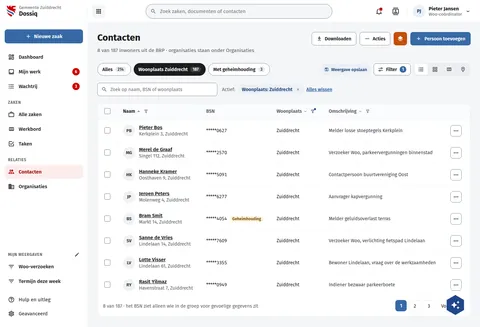
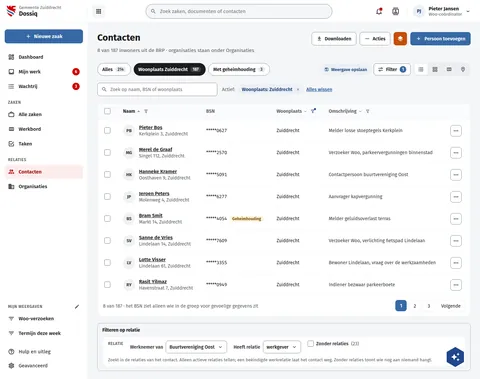
feat(screens): dossiq contact boards follow the pipelinq client boards (decision 305)
DqContact gains the account owner, notes with templates, deletion and GDPR requests with the
ended relationship, and the BRP lookup failures. DqOrganisatie gains the prompt for mail from an
unknown address, and DqContacten the relationship filter.

diff --git a/preview/screens/boards/DqContact.html b/preview/screens/boards/DqContact.html
@@ -192,6 +192,8 @@ a{color:var(--sc-primary, #3669a5)}a:hover{color:var(--sc-primary-deep, #234a78)
                 
                   <div style="display: flex; flex-direction: column; gap: 2px"><dt style="font-size: 13px; color: var(--sc-work-muted, #5e6168)">Omschrijving</dt><dd style="margin: 0">Verzoeker Woo, verlichting fietspad Lindelaan</dd></div>
                 
+                  <div style="display: flex; flex-direction: column; gap: 2px"><dt style="font-size: 13px; color: var(--sc-work-muted, #5e6168)">Accounteigenaar</dt><dd style="margin: 0">Pieter Jansen, de collega die dit contact beheert</dd></div>
+                
               </dl>
             </section>
             <section style="background: #ffffff; border: 1px solid var(--sc-work-line, #e4e6ea); border-radius: 12px; padding: 20px 22px 8px; display: flex; flex-direction: column; gap: 4px">
@@ -315,6 +317,7 @@ a{color:var(--sc-primary, #3669a5)}a:hover{color:var(--sc-primary-deep, #234a78)
                 </div>
               
             </section>
+            <section style="background: #ffffff; border: 1px solid var(--sc-work-line, #e4e6ea); border-radius: 12px; padding: 20px 22px; display: flex; flex-direction: column; gap: 14px"><div style="display: flex; flex-wrap: wrap; justify-content: space-between; align-items: center; gap: 10px"><h2 style="margin: 0; font-size: 17px; font-weight: 700">Notities</h2><div style="display: flex; flex-wrap: wrap; gap: 8px"><button type="button" style="display: inline-flex; align-items: center; gap: 8px; height: 36px; padding: 0 12px; border: 1px solid var(--sc-work-field, #828a95); border-radius: 8px; background: #ffffff; font: 600 14px var(--sc-font, 'Fira Sans'), sans-serif; color: var(--sc-work-ink, #1b1c1d); white-space: nowrap">Notitie toevoegen</button><button type="button" aria-haspopup="listbox" aria-expanded="true" style="display: inline-flex; align-items: center; gap: 8px; height: 36px; padding: 0 12px; border: 1px solid var(--sc-work-field, #828a95); border-radius: 8px; background: #ffffff; font: 600 14px var(--sc-font, 'Fira Sans'), sans-serif; color: var(--sc-work-ink, #1b1c1d); white-space: nowrap">Sjablonen</button></div></div><div style="display: flex; flex-direction: column; gap: 10px; padding: 12px 14px; border: 1px dashed var(--sc-work-field, #828a95); border-radius: 10px"><strong style="font-size: 14px">Sjablonen voor een notitie</strong><div style="display: flex; flex-direction: column; gap: 10px"><ul role="listbox" aria-label="Notitiesjabloon" style="list-style: none; margin: 0; padding: 4px; border: 1px solid var(--sc-work-line, #e4e6ea); border-radius: 8px; max-width: 360px; font-size: 14px"><li role="option" style="padding: 8px 10px; border-radius: 6px; background: var(--sc-primary-light, #eaf0f7)">Eerste contact</li><li role="option" style="padding: 8px 10px; border-radius: 6px">Terugbelgesprek</li><li role="option" style="padding: 8px 10px; border-radius: 6px">Klachtafhandeling</li><li role="option" style="padding: 8px 10px; border-radius: 6px">Afspraak gemaakt</li></ul><span style="font-size: 13px; color: var(--sc-work-muted, #5e6168)">De beheerder beheert ze onder Notitiesjablonen.</span></div></div><span style="font-size: 14px; color: var(--sc-work-muted, #5e6168)">Nog geen notities bij dit contact.</span></section>
           </div>
 
           <aside style="flex: 1 1 300px; min-width: 0; display: flex; flex-direction: column; gap: 20px">
@@ -324,6 +327,7 @@ a{color:var(--sc-primary, #3669a5)}a:hover{color:var(--sc-primary-deep, #234a78)
               <span style="font-size: 14px; color: var(--sc-work-muted, #5e6168); line-height: 1.45">Laatst contact op 4 oktober, via e-mail. Telefoon en e-mail staan niet in de basisregistratie.</span>
               <button type="button" style="align-self: flex-start; display: inline-flex; align-items: center; gap: 8px; height: 34px; padding: 0 14px; border: 0; border-radius: 17px; background: var(--sc-primary-light, #eaf0f7); color: var(--sc-primary-deep, #234a78); font: 600 13px var(--sc-font, 'Fira Sans'), sans-serif"><svg width="16" height="16" viewbox="0 0 24 24" fill="currentColor"><path d="M20 15.5C18.8 15.5 17.5 15.3 16.4 14.9H16.1C15.8 14.9 15.6 15 15.4 15.2L13.2 17.4C10.4 15.9 8 13.6 6.6 10.8L8.8 8.6C9.1 8.3 9.2 7.9 9 7.6C8.7 6.5 8.5 5.2 8.5 4C8.5 3.5 8 3 7.5 3H4C3.5 3 3 3.5 3 4C3 13.4 10.6 21 20 21C20.5 21 21 20.5 21 20V16.5C21 16 20.5 15.5 20 15.5M5 5H6.5C6.6 5.9 6.8 6.8 7 7.6L5.8 8.8C5.4 7.6 5.1 6.3 5 5M19 19C17.7 18.9 16.4 18.6 15.2 18.2L16.4 17C17.2 17.2 18.1 17.4 19 17.4V19M12 3H14V5H12M15 3H21V5H15M12 6H14V8H12M15 6H21V8H15M12 9H14V11H12M15 9H21V11H15Z"></path></svg>Contact vastleggen</button>
             </section>
+            <section style="background: #ffffff; border: 1px solid var(--sc-work-line, #e4e6ea); border-radius: 12px; padding: 20px 22px; display: flex; flex-direction: column; gap: 10px"><h2 style="margin: 0; font-size: 15px; font-weight: 600; color: var(--sc-work-muted, #5e6168)">Verwijderen en AVG-verzoeken</h2><span style="font-size: 13px; color: var(--sc-work-muted, #5e6168)">Onder Meer. Verwijderen vraagt altijd om bevestiging; de AVG-acties zijn er alleen voor wie het recht heeft.</span><div style="display: flex; flex-wrap: wrap; gap: 10px; align-items: center"><button type="button" style="display: inline-flex; align-items: center; gap: 6px; height: 34px; padding: 0 12px; border: 0; border-radius: 17px; background: var(--sc-primary-light, #eaf0f7); color: var(--sc-primary-deep, #234a78); font: 600 13px var(--sc-font, 'Fira Sans'), sans-serif; white-space: nowrap; align-self: flex-start">Contact verwijderen</button><button type="button" style="display: inline-flex; align-items: center; gap: 6px; height: 34px; padding: 0 12px; border: 0; border-radius: 17px; background: var(--sc-primary-light, #eaf0f7); color: var(--sc-primary-deep, #234a78); font: 600 13px var(--sc-font, 'Fira Sans'), sans-serif; white-space: nowrap; align-self: flex-start">Gegevens exporteren (inzage)</button><button type="button" style="display: inline-flex; align-items: center; gap: 6px; height: 34px; padding: 0 12px; border: 0; border-radius: 17px; background: var(--sc-primary-light, #eaf0f7); color: var(--sc-primary-deep, #234a78); font: 600 13px var(--sc-font, 'Fira Sans'), sans-serif; white-space: nowrap; align-self: flex-start">Gegevens wissen (verwijderverzoek)</button><button type="button" style="display: inline-flex; align-items: center; gap: 6px; height: 34px; padding: 0 12px; border: 0; border-radius: 17px; background: var(--sc-primary-light, #eaf0f7); color: var(--sc-primary-deep, #234a78); font: 600 13px var(--sc-font, 'Fira Sans'), sans-serif; white-space: nowrap; align-self: flex-start">Relatie beëindigen</button></div><div style="display: flex; flex-direction: column; gap: 10px; padding: 12px 14px; border: 1px dashed var(--sc-work-field, #828a95); border-radius: 10px"><strong style="font-size: 14px">Contact verwijderen</strong><div style="display: flex; flex-direction: column; gap: 10px"><span style="display: flex; gap: 8px; align-items: flex-start; padding: 10px 12px; border-radius: 8px; background: #fff4de; color: #7a4f00; font-size: 14px; line-height: 1.4">Sanne de Vries hangt aan 8 zaken en 4 tickets. Zaken en tickets houden hun gegevens maar verwijzen niet meer naar dit contact.</span><div style="display: flex; flex-wrap: wrap; gap: 10px; align-items: center"><button type="button" style="height: 40px; padding: 0 16px; border: 0; border-radius: 8px; background: var(--sc-accent-deep, #a30000); color: #ffffff; font: 600 14px var(--sc-font, 'Fira Sans'), sans-serif; white-space: nowrap">Toch verwijderen</button><button type="button" style="height: 40px; padding: 0 16px; border: 1px solid var(--sc-work-field, #828a95); border-radius: 8px; background: #ffffff; color: var(--sc-work-ink, #1b1c1d); font: 600 14px var(--sc-font, 'Fira Sans'), sans-serif; white-space: nowrap">Annuleren</button></div></div></div><div style="display: flex; flex-direction: column; gap: 10px; padding: 12px 14px; border: 1px dashed var(--sc-work-field, #828a95); border-radius: 10px"><strong style="font-size: 14px">Inzageverzoek</strong><div style="display: flex; flex-direction: column; gap: 10px"><span style="display: flex; gap: 8px; align-items: flex-start; padding: 10px 12px; border-radius: 8px; background: #e7f3ea; color: #1e6b2a; font-size: 14px; line-height: 1.4">Export klaar: sanne-de-vries-inzage-2026-11-04.json (gegevens, 8 zaken, 4 tickets, contactmomenten, notities). Eén bestand, ook als CSV.</span></div></div><div style="display: flex; flex-direction: column; gap: 10px; padding: 12px 14px; border: 1px dashed var(--sc-work-field, #828a95); border-radius: 10px"><strong style="font-size: 14px">Verwijderverzoek: dit wordt gewist</strong><div style="display: flex; flex-direction: column; gap: 10px"><ul style="margin: 0; padding-left: 20px; font-size: 14px; line-height: 1.5"><li>Persoonsgegevens, adres en contactkanalen: gewist</li><li>8 zaken: de naam wordt "Geanonimiseerd", de zaken blijven</li><li>4 tickets: de naam wordt "Geanonimiseerd", de tickets blijven</li><li>Notities en contactmomenten: gewist</li></ul><span style="display: flex; gap: 8px; align-items: flex-start; padding: 10px 12px; border-radius: 8px; background: #fff4de; color: #7a4f00; font-size: 14px; line-height: 1.4">Wissen is niet terug te draaien. De actie wordt gelogd met referentie AVG-2026-0142 en tijdstip.</span><div style="display: flex; flex-wrap: wrap; gap: 10px; align-items: center"><button type="button" style="height: 40px; padding: 0 16px; border: 0; border-radius: 8px; background: var(--sc-accent-deep, #a30000); color: #ffffff; font: 600 14px var(--sc-font, 'Fira Sans'), sans-serif; white-space: nowrap">Wissen</button><button type="button" style="height: 40px; padding: 0 16px; border: 1px solid var(--sc-work-field, #828a95); border-radius: 8px; background: #ffffff; color: var(--sc-work-ink, #1b1c1d); font: 600 14px var(--sc-font, 'Fira Sans'), sans-serif; white-space: nowrap">Annuleren</button></div></div></div><div style="display: flex; flex-direction: column; gap: 10px; padding: 12px 14px; border: 1px dashed var(--sc-work-field, #828a95); border-radius: 10px"><strong style="font-size: 14px">Als de relatie is beëindigd</strong><span style="font-size: 13px; color: var(--sc-work-muted, #5e6168)">Een actief contact heeft geen vernietigingsdatum; komt het contact terug, dan verdwijnt ook deze regel.</span><dl style="margin: 0; display: grid; grid-template-columns: max-content 1fr; gap: 8px 16px; font-size: 14px"><dt style="color: var(--sc-work-muted, #5e6168)">Relatie beëindigd</dt><dd style="margin: 0">12 september 2026, door Pieter Jansen</dd><dt style="color: var(--sc-work-muted, #5e6168)">Vernietiging</dt><dd style="margin: 0">12 september 2028, twee jaar na het einde</dd></dl></div></section>
             <section style="background: #ffffff; border: 1px solid var(--sc-work-line, #e4e6ea); border-radius: 12px; padding: 20px 22px; display: flex; flex-direction: column; gap: 10px">
               <h2 style="margin: 0; font-size: 15px; font-weight: 600; color: var(--sc-work-muted, #5e6168)">Identiteit</h2>
               <div style="display: flex; gap: 12px; align-items: center"><span style="width: 40px; height: 40px; flex: none; border-radius: 20px; background: #e7f3ea; color: #1e6b2a; display: flex; align-items: center; justify-content: center"><svg width="20" height="20" viewbox="0 0 24 24" fill="currentColor"><path d="M12,1L3,5V11C3,16.55 6.84,21.74 12,23C17.16,21.74 21,16.55 21,11V5L12,1M12,3.18L19,6.3V11.22C19,12.92 18.5,14.65 17.65,16.17C16,14.94 13.26,14.5 12,14.5C10.74,14.5 8,14.94 6.35,16.17C5.5,14.65 5,12.92 5,11.22V6.3L12,3.18M12,6A3.5,3.5 0 0,0 8.5,9.5A3.5,3.5 0 0,0 12,13A3.5,3.5 0 0,0 15.5,9.5A3.5,3.5 0 0,0 12,6M12,8A1.5,1.5 0 0,1 13.5,9.5A1.5,1.5 0 0,1 12,11A1.5,1.5 0 0,1 10.5,9.5A1.5,1.5 0 0,1 12,8M12,16.5C13.57,16.5 15.64,17.11 16.53,17.84C15.29,19.38 13.7,20.55 12,21C10.3,20.55 8.71,19.38 7.47,17.84C8.37,17.11 10.43,16.5 12,16.5Z"></path></svg></span><span style="display: flex; flex-direction: column"><strong style="font-size: 15px">Geïdentificeerd met controlevragen</strong><span style="font-size: 13px; color: var(--sc-work-muted, #5e6168)">bij het contactmoment van 4 oktober</span></span></div>
@@ -332,7 +336,7 @@ a{color:var(--sc-primary, #3669a5)}a:hover{color:var(--sc-primary-deep, #234a78)
                 <dt style="color: var(--sc-work-muted, #5e6168)">Geheimhouding</dt><dd style="margin: 0">Nee</dd>
                 <dt style="color: var(--sc-work-muted, #5e6168)">Bron</dt><dd style="margin: 0">Basisregistratie personen</dd>
               </dl>
-              <span style="font-size: 13px; color: var(--sc-work-muted, #5e6168)">Het tonen van het BSN wordt gelogd.</span>
+              <span style="font-size: 13px; color: var(--sc-work-muted, #5e6168)">Het tonen van het BSN wordt gelogd.</span><div style="display: flex; flex-direction: column; gap: 10px; padding: 12px 14px; border: 1px dashed var(--sc-work-field, #828a95); border-radius: 10px"><strong style="font-size: 14px">Als bevragen van de BRP niet lukt</strong><div style="display: flex; flex-direction: column; gap: 10px"><span role="alert" style="display: flex; gap: 8px; align-items: flex-start; padding: 10px 12px; border-radius: 8px; background: #fdecec; color: #a3281f; font-size: 14px; line-height: 1.4">BRP momenteel niet bereikbaar, probeer over enkele minuten opnieuw.</span><span style="font-size: 13px; color: var(--sc-work-muted, #5e6168)">De gegevens blijven bewerkbaar zonder verificatie. De poging staat in het auditlog met correlatie-id en uitkomst fout (503).</span><span role="alert" style="display: flex; gap: 8px; align-items: flex-start; padding: 10px 12px; border-radius: 8px; background: #fdecec; color: #a3281f; font-size: 14px; line-height: 1.4">BSN niet aangetroffen in BRP, controleer invoer.</span><span style="font-size: 13px; color: var(--sc-work-muted, #5e6168)">Ook een mislukte bevraging wordt vastgelegd en bewaard; het record is niet te verwijderen.</span></div></div>
             </section>
             <section style="background: #ffffff; border: 1px solid var(--sc-work-line, #e4e6ea); border-radius: 12px; padding: 20px 22px; display: flex; flex-direction: column; gap: 8px">
               <h2 style="margin: 0; font-size: 15px; font-weight: 600; color: var(--sc-work-muted, #5e6168)">Woonadres</h2>

diff --git a/screens-src/zuiddrecht/DqContact.dc.html b/screens-src/zuiddrecht/DqContact.dc.html
@@ -53,7 +53,7 @@ a{color:#3669a5}a:hover{color:#234a78}
             <section style="background: #ffffff; border: 1px solid #e4e6ea; border-radius: 0 12px 12px 12px; padding: 20px 22px; display: flex; flex-direction: column; gap: 14px">
               <h2 style="margin: 0; font-size: 17px; font-weight: 700">Contact</h2>
               <dl style="margin: 0; display: grid; grid-template-columns: repeat(auto-fit, minmax(240px, 1fr)); gap: 14px 24px; font-size: 15px">
-                <sc-for list="{{ facts }}" as="f" hint-placeholder-count="6">
+                <sc-for list="{{ facts }}" as="f" hint-placeholder-count="7">
                   <div style="display: flex; flex-direction: column; gap: 2px"><dt style="font-size: 13px; color: #5e6168">{{ f.label }}</dt><dd style="margin: 0">{{ f.value }}</dd></div>
                 </sc-for>
               </dl>
@@ -101,6 +101,7 @@ a{color:#3669a5}a:hover{color:#234a78}
                 </div>
               </sc-for>
             </section>
+            <section style="background: #ffffff; border: 1px solid #e4e6ea; border-radius: 12px; padding: 20px 22px; display: flex; flex-direction: column; gap: 14px"><div style="display: flex; flex-wrap: wrap; justify-content: space-between; align-items: center; gap: 10px"><h2 style="margin: 0; font-size: 17px; font-weight: 700">Notities</h2><div style="display: flex; flex-wrap: wrap; gap: 8px"><button type="button" style="display: inline-flex; align-items: center; gap: 8px; height: 36px; padding: 0 12px; border: 1px solid #828a95; border-radius: 8px; background: #ffffff; font: 600 14px 'Fira Sans', sans-serif; color: #1b1c1d; white-space: nowrap">Notitie toevoegen</button><button type="button" aria-haspopup="listbox" aria-expanded="true" style="display: inline-flex; align-items: center; gap: 8px; height: 36px; padding: 0 12px; border: 1px solid #828a95; border-radius: 8px; background: #ffffff; font: 600 14px 'Fira Sans', sans-serif; color: #1b1c1d; white-space: nowrap">Sjablonen</button></div></div><div style="display: flex; flex-direction: column; gap: 10px; padding: 12px 14px; border: 1px dashed #828a95; border-radius: 10px"><strong style="font-size: 14px">Sjablonen voor een notitie</strong><div style="display: flex; flex-direction: column; gap: 10px"><ul role="listbox" aria-label="Notitiesjabloon" style="list-style: none; margin: 0; padding: 4px; border: 1px solid #e4e6ea; border-radius: 8px; max-width: 360px; font-size: 14px"><li role="option" style="padding: 8px 10px; border-radius: 6px; background: #eaf0f7">Eerste contact</li><li role="option" style="padding: 8px 10px; border-radius: 6px">Terugbelgesprek</li><li role="option" style="padding: 8px 10px; border-radius: 6px">Klachtafhandeling</li><li role="option" style="padding: 8px 10px; border-radius: 6px">Afspraak gemaakt</li></ul><span style="font-size: 13px; color: #5e6168">De beheerder beheert ze onder Notitiesjablonen.</span></div></div><span style="font-size: 14px; color: #5e6168">Nog geen notities bij dit contact.</span></section>
           </div>
 
           <aside style="flex: 1 1 300px; min-width: 0; display: flex; flex-direction: column; gap: 20px">
@@ -110,6 +111,7 @@ a{color:#3669a5}a:hover{color:#234a78}
               <span style="font-size: 14px; color: #5e6168; line-height: 1.45">Laatst contact op 4 oktober, via e-mail. Telefoon en e-mail staan niet in de basisregistratie.</span>
               <button type="button" style="align-self: flex-start; display: inline-flex; align-items: center; gap: 8px; height: 34px; padding: 0 14px; border: 0; border-radius: 17px; background: #eaf0f7; color: #234a78; font: 600 13px 'Fira Sans', sans-serif"><svg width="16" height="16" viewBox="0 0 24 24" fill="currentColor"><path d="M20 15.5C18.8 15.5 17.5 15.3 16.4 14.9H16.1C15.8 14.9 15.6 15 15.4 15.2L13.2 17.4C10.4 15.9 8 13.6 6.6 10.8L8.8 8.6C9.1 8.3 9.2 7.9 9 7.6C8.7 6.5 8.5 5.2 8.5 4C8.5 3.5 8 3 7.5 3H4C3.5 3 3 3.5 3 4C3 13.4 10.6 21 20 21C20.5 21 21 20.5 21 20V16.5C21 16 20.5 15.5 20 15.5M5 5H6.5C6.6 5.9 6.8 6.8 7 7.6L5.8 8.8C5.4 7.6 5.1 6.3 5 5M19 19C17.7 18.9 16.4 18.6 15.2 18.2L16.4 17C17.2 17.2 18.1 17.4 19 17.4V19M12 3H14V5H12M15 3H21V5H15M12 6H14V8H12M15 6H21V8H15M12 9H14V11H12M15 9H21V11H15Z"></path></svg>Contact vastleggen</button>
             </section>
+            <section style="background: #ffffff; border: 1px solid #e4e6ea; border-radius: 12px; padding: 20px 22px; display: flex; flex-direction: column; gap: 10px"><h2 style="margin: 0; font-size: 15px; font-weight: 600; color: #5e6168">Verwijderen en AVG-verzoeken</h2><span style="font-size: 13px; color: #5e6168">Onder Meer. Verwijderen vraagt altijd om bevestiging; de AVG-acties zijn er alleen voor wie het recht heeft.</span><div style="display: flex; flex-wrap: wrap; gap: 10px; align-items: center"><button type="button" style="display: inline-flex; align-items: center; gap: 6px; height: 34px; padding: 0 12px; border: 0; border-radius: 17px; background: #eaf0f7; color: #234a78; font: 600 13px 'Fira Sans', sans-serif; white-space: nowrap; align-self: flex-start">Contact verwijderen</button><button type="button" style="display: inline-flex; align-items: center; gap: 6px; height: 34px; padding: 0 12px; border: 0; border-radius: 17px; background: #eaf0f7; color: #234a78; font: 600 13px 'Fira Sans', sans-serif; white-space: nowrap; align-self: flex-start">Gegevens exporteren (inzage)</button><button type="button" style="display: inline-flex; align-items: center; gap: 6px; height: 34px; padding: 0 12px; border: 0; border-radius: 17px; background: #eaf0f7; color: #234a78; font: 600 13px 'Fira Sans', sans-serif; white-space: nowrap; align-self: flex-start">Gegevens wissen (verwijderverzoek)</button><button type="button" style="display: inline-flex; align-items: center; gap: 6px; height: 34px; padding: 0 12px; border: 0; border-radius: 17px; background: #eaf0f7; color: #234a78; font: 600 13px 'Fira Sans', sans-serif; white-space: nowrap; align-self: flex-start">Relatie beëindigen</button></div><div style="display: flex; flex-direction: column; gap: 10px; padding: 12px 14px; border: 1px dashed #828a95; border-radius: 10px"><strong style="font-size: 14px">Contact verwijderen</strong><div style="display: flex; flex-direction: column; gap: 10px"><span style="display: flex; gap: 8px; align-items: flex-start; padding: 10px 12px; border-radius: 8px; background: #fff4de; color: #7a4f00; font-size: 14px; line-height: 1.4">Sanne de Vries hangt aan 8 zaken en 4 tickets. Zaken en tickets houden hun gegevens maar verwijzen niet meer naar dit contact.</span><div style="display: flex; flex-wrap: wrap; gap: 10px; align-items: center"><button type="button" style="height: 40px; padding: 0 16px; border: 0; border-radius: 8px; background: #a30000; color: #ffffff; font: 600 14px 'Fira Sans', sans-serif; white-space: nowrap">Toch verwijderen</button><button type="button" style="height: 40px; padding: 0 16px; border: 1px solid #828a95; border-radius: 8px; background: #ffffff; color: #1b1c1d; font: 600 14px 'Fira Sans', sans-serif; white-space: nowrap">Annuleren</button></div></div></div><div style="display: flex; flex-direction: column; gap: 10px; padding: 12px 14px; border: 1px dashed #828a95; border-radius: 10px"><strong style="font-size: 14px">Inzageverzoek</strong><div style="display: flex; flex-direction: column; gap: 10px"><span style="display: flex; gap: 8px; align-items: flex-start; padding: 10px 12px; border-radius: 8px; background: #e7f3ea; color: #1e6b2a; font-size: 14px; line-height: 1.4">Export klaar: sanne-de-vries-inzage-2026-11-04.json (gegevens, 8 zaken, 4 tickets, contactmomenten, notities). Eén bestand, ook als CSV.</span></div></div><div style="display: flex; flex-direction: column; gap: 10px; padding: 12px 14px; border: 1px dashed #828a95; border-radius: 10px"><strong style="font-size: 14px">Verwijderverzoek: dit wordt gewist</strong><div style="display: flex; flex-direction: column; gap: 10px"><ul style="margin: 0; padding-left: 20px; font-size: 14px; line-height: 1.5"><li>Persoonsgegevens, adres en contactkanalen: gewist</li><li>8 zaken: de naam wordt "Geanonimiseerd", de zaken blijven</li><li>4 tickets: de naam wordt "Geanonimiseerd", de tickets blijven</li><li>Notities en contactmomenten: gewist</li></ul><span style="display: flex; gap: 8px; align-items: flex-start; padding: 10px 12px; border-radius: 8px; background: #fff4de; color: #7a4f00; font-size: 14px; line-height: 1.4">Wissen is niet terug te draaien. De actie wordt gelogd met referentie AVG-2026-0142 en tijdstip.</span><div style="display: flex; flex-wrap: wrap; gap: 10px; align-items: center"><button type="button" style="height: 40px; padding: 0 16px; border: 0; border-radius: 8px; background: #a30000; color: #ffffff; font: 600 14px 'Fira Sans', sans-serif; white-space: nowrap">Wissen</button><button type="button" style="height: 40px; padding: 0 16px; border: 1px solid #828a95; border-radius: 8px; background: #ffffff; color: #1b1c1d; font: 600 14px 'Fira Sans', sans-serif; white-space: nowrap">Annuleren</button></div></div></div><div style="display: flex; flex-direction: column; gap: 10px; padding: 12px 14px; border: 1px dashed #828a95; border-radius: 10px"><strong style="font-size: 14px">Als de relatie is beëindigd</strong><span style="font-size: 13px; color: #5e6168">Een actief contact heeft geen vernietigingsdatum; komt het contact terug, dan verdwijnt ook deze regel.</span><dl style="margin: 0; display: grid; grid-template-columns: max-content 1fr; gap: 8px 16px; font-size: 14px"><dt style="color: #5e6168">Relatie beëindigd</dt><dd style="margin: 0">12 september 2026, door Pieter Jansen</dd><dt style="color: #5e6168">Vernietiging</dt><dd style="margin: 0">12 september 2028, twee jaar na het einde</dd></dl></div></section>
             <section style="background: #ffffff; border: 1px solid #e4e6ea; border-radius: 12px; padding: 20px 22px; display: flex; flex-direction: column; gap: 10px">
               <h2 style="margin: 0; font-size: 15px; font-weight: 600; color: #5e6168">Identiteit</h2>
               <div style="display: flex; gap: 12px; align-items: center"><span style="width: 40px; height: 40px; flex: none; border-radius: 20px; background: #e7f3ea; color: #1e6b2a; display: flex; align-items: center; justify-content: center"><svg width="20" height="20" viewBox="0 0 24 24" fill="currentColor"><path d="M12,1L3,5V11C3,16.55 6.84,21.74 12,23C17.16,21.74 21,16.55 21,11V5L12,1M12,3.18L19,6.3V11.22C19,12.92 18.5,14.65 17.65,16.17C16,14.94 13.26,14.5 12,14.5C10.74,14.5 8,14.94 6.35,16.17C5.5,14.65 5,12.92 5,11.22V6.3L12,3.18M12,6A3.5,3.5 0 0,0 8.5,9.5A3.5,3.5 0 0,0 12,13A3.5,3.5 0 0,0 15.5,9.5A3.5,3.5 0 0,0 12,6M12,8A1.5,1.5 0 0,1 13.5,9.5A1.5,1.5 0 0,1 12,11A1.5,1.5 0 0,1 10.5,9.5A1.5,1.5 0 0,1 12,8M12,16.5C13.57,16.5 15.64,17.11 16.53,17.84C15.29,19.38 13.7,20.55 12,21C10.3,20.55 8.71,19.38 7.47,17.84C8.37,17.11 10.43,16.5 12,16.5Z"></path></svg></span><span style="display: flex; flex-direction: column"><strong style="font-size: 15px">Geïdentificeerd met controlevragen</strong><span style="font-size: 13px; color: #5e6168">bij het contactmoment van 4 oktober</span></span></div>
@@ -118,7 +120,7 @@ a{color:#3669a5}a:hover{color:#234a78}
                 <dt style="color: #5e6168">Geheimhouding</dt><dd style="margin: 0">Nee</dd>
                 <dt style="color: #5e6168">Bron</dt><dd style="margin: 0">Basisregistratie personen</dd>
               </dl>
-              <span style="font-size: 13px; color: #5e6168">Het tonen van het BSN wordt gelogd.</span>
+              <span style="font-size: 13px; color: #5e6168">Het tonen van het BSN wordt gelogd.</span><div style="display: flex; flex-direction: column; gap: 10px; padding: 12px 14px; border: 1px dashed #828a95; border-radius: 10px"><strong style="font-size: 14px">Als bevragen van de BRP niet lukt</strong><div style="display: flex; flex-direction: column; gap: 10px"><span role="alert" style="display: flex; gap: 8px; align-items: flex-start; padding: 10px 12px; border-radius: 8px; background: #fdecec; color: #a3281f; font-size: 14px; line-height: 1.4">BRP momenteel niet bereikbaar, probeer over enkele minuten opnieuw.</span><span style="font-size: 13px; color: #5e6168">De gegevens blijven bewerkbaar zonder verificatie. De poging staat in het auditlog met correlatie-id en uitkomst fout (503).</span><span role="alert" style="display: flex; gap: 8px; align-items: flex-start; padding: 10px 12px; border-radius: 8px; background: #fdecec; color: #a3281f; font-size: 14px; line-height: 1.4">BSN niet aangetroffen in BRP, controleer invoer.</span><span style="font-size: 13px; color: #5e6168">Ook een mislukte bevraging wordt vastgelegd en bewaard; het record is niet te verwijderen.</span></div></div>
             </section>
             <section style="background: #ffffff; border: 1px solid #e4e6ea; border-radius: 12px; padding: 20px 22px; display: flex; flex-direction: column; gap: 8px">
               <h2 style="margin: 0; font-size: 15px; font-weight: 600; color: #5e6168">Woonadres</h2>
@@ -146,7 +148,7 @@ class Component extends DCLogic {
     const tabs = [['Overzicht', true], ['Zaken 8', false], ['Contactmomenten 5', false], ['Bestanden 4', false], ['Historie 9', false]].map(([label, on]) => ({ label, sel: on ? 'true' : 'false', style: tab(on) }));
     const facts = [
       ['Naam', 'Sanne de Vries'], ['Voornamen', 'Sanne Johanna'], ['Geslachtsnaam', 'de Vries'],
-      ['Geboortedatum', '14 maart 1988'], ['Woonadres', 'Lindelaan 14, 2999 AA Zuiddrecht'], ['Omschrijving', 'Verzoeker Woo, verlichting fietspad Lindelaan']
+      ['Geboortedatum', '14 maart 1988'], ['Woonadres', 'Lindelaan 14, 2999 AA Zuiddrecht'], ['Omschrijving', 'Verzoeker Woo, verlichting fietspad Lindelaan'], ['Accounteigenaar', 'Pieter Jansen, de collega die dit contact beheert']
     ].map(([label, value]) => ({ label, value }));
     const pill = (bg, fg) => 'display: inline-block; padding: 3px 10px; border-radius: 12px; font-size: 13px; font-weight: 600; white-space: nowrap; background: ' + bg + '; color: ' + fg;
     const cases = [

diff --git a/preview/screens/boards/DqContacten.html b/preview/screens/boards/DqContacten.html
@@ -284,6 +284,13 @@ a{color:var(--sc-primary, #3669a5)}a:hover{color:var(--sc-primary-deep, #234a78)
             </nav>
           </div>
         </div>
+        <div style="display: flex; flex-direction: column; gap: 10px; padding: 12px 14px; border: 1px dashed var(--sc-work-field, #828a95); border-radius: 10px"><strong style="font-size: 14px">Filteren op relatie</strong><div role="group" aria-label="Filter op relatie" style="display: flex; flex-wrap: wrap; align-items: flex-start; gap: 12px 20px; padding: 12px 16px; background: #ffffff; border: 1px solid var(--sc-work-line, #e4e6ea); border-radius: 12px; font-size: 14px">
+          <span style="flex: none; font-size: 12px; font-weight: 600; color: var(--sc-work-muted, #5e6168); text-transform: uppercase; letter-spacing: 0.04em; padding-top: 2px">Relatie</span>
+          <label style="display: inline-flex; align-items: center; gap: 8px; color: var(--sc-work-text, #3d4047); font-weight: 600">Werknemer van<span role="combobox" aria-expanded="false" style="display: inline-flex; align-items: center; gap: 8px; height: 36px; padding: 0 10px; border: 1px solid var(--sc-work-field, #828a95); border-radius: 8px; background: #ffffff; font-weight: 500; color: var(--sc-work-ink, #1b1c1d)">Buurtvereniging Oost<svg width="18" height="18" viewbox="0 0 24 24" fill="#3d4047" aria-hidden="true" style="fill:var(--sc-work-text, #3d4047)"><path d="M7.41,8.58L12,13.17L16.59,8.58L18,10L12,16L6,10L7.41,8.58Z"></path></svg></span></label>
+          <label style="display: inline-flex; align-items: center; gap: 8px; color: var(--sc-work-text, #3d4047); font-weight: 600">Heeft relatie<span role="combobox" aria-expanded="false" style="display: inline-flex; align-items: center; gap: 8px; height: 36px; padding: 0 10px; border: 1px solid var(--sc-work-field, #828a95); border-radius: 8px; background: #ffffff; font-weight: 500; color: var(--sc-work-ink, #1b1c1d)">werkgever<svg width="18" height="18" viewbox="0 0 24 24" fill="#3d4047" aria-hidden="true" style="fill:var(--sc-work-text, #3d4047)"><path d="M7.41,8.58L12,13.17L16.59,8.58L18,10L12,16L6,10L7.41,8.58Z"></path></svg></span></label>
+          <label style="display: inline-flex; align-items: center; gap: 8px; color: var(--sc-work-text, #3d4047); font-weight: 600"><input type="checkbox" style="width: 18px; height: 18px; margin: 0">Zonder relaties<span style="font-weight: 400; color: var(--sc-work-muted, #5e6168)">(23)</span></label>
+          <span style="flex: 1 1 100%; font-size: 13px; color: var(--sc-work-muted, #5e6168)">Zoekt in de relaties van het contact. Alleen actieve relaties tellen; een beëindigde werkrelatie laat het contact weg. Zonder relaties toont wie nog aan niemand hangt.</span>
+        </div></div>
 
       </main>
     </div>

diff --git a/screens-src/zuiddrecht/DqContacten.dc.html b/screens-src/zuiddrecht/DqContacten.dc.html
@@ -93,6 +93,13 @@ a{color:#3669a5}a:hover{color:#234a78}
             </nav>
           </div>
         </div>
+        <div style="display: flex; flex-direction: column; gap: 10px; padding: 12px 14px; border: 1px dashed #828a95; border-radius: 10px"><strong style="font-size: 14px">Filteren op relatie</strong><div role="group" aria-label="Filter op relatie" style="display: flex; flex-wrap: wrap; align-items: flex-start; gap: 12px 20px; padding: 12px 16px; background: #ffffff; border: 1px solid #e4e6ea; border-radius: 12px; font-size: 14px">
+          <span style="flex: none; font-size: 12px; font-weight: 600; color: #5e6168; text-transform: uppercase; letter-spacing: 0.04em; padding-top: 2px">Relatie</span>
+          <label style="display: inline-flex; align-items: center; gap: 8px; color: #3d4047; font-weight: 600">Werknemer van<span role="combobox" aria-expanded="false" style="display: inline-flex; align-items: center; gap: 8px; height: 36px; padding: 0 10px; border: 1px solid #828a95; border-radius: 8px; background: #ffffff; font-weight: 500; color: #1b1c1d">Buurtvereniging Oost<svg width="18" height="18" viewBox="0 0 24 24" fill="#3d4047" aria-hidden="true"><path d="M7.41,8.58L12,13.17L16.59,8.58L18,10L12,16L6,10L7.41,8.58Z"></path></svg></span></label>
+          <label style="display: inline-flex; align-items: center; gap: 8px; color: #3d4047; font-weight: 600">Heeft relatie<span role="combobox" aria-expanded="false" style="display: inline-flex; align-items: center; gap: 8px; height: 36px; padding: 0 10px; border: 1px solid #828a95; border-radius: 8px; background: #ffffff; font-weight: 500; color: #1b1c1d">werkgever<svg width="18" height="18" viewBox="0 0 24 24" fill="#3d4047" aria-hidden="true"><path d="M7.41,8.58L12,13.17L16.59,8.58L18,10L12,16L6,10L7.41,8.58Z"></path></svg></span></label>
+          <label style="display: inline-flex; align-items: center; gap: 8px; color: #3d4047; font-weight: 600"><input type="checkbox" style="width: 18px; height: 18px; margin: 0">Zonder relaties<span style="font-weight: 400; color: #5e6168">(23)</span></label>
+          <span style="flex: 1 1 100%; font-size: 13px; color: #5e6168">Zoekt in de relaties van het contact. Alleen actieve relaties tellen; een beëindigde werkrelatie laat het contact weg. Zonder relaties toont wie nog aan niemand hangt.</span>
+        </div></div>
 
       </main>
     </div>

diff --git a/preview/screens/boards/DqOrganisatie.html b/preview/screens/boards/DqOrganisatie.html
@@ -156,6 +156,7 @@ a{color:var(--sc-primary, #3669a5)}a:hover{color:var(--sc-primary-deep, #234a78)
               <nav aria-label="Kruimelpad" style="font-size: 14px; color: var(--sc-work-muted, #5e6168); display: flex; gap: 8px"><a href="DqOrganisaties.html">Organisaties</a><span aria-hidden="true">/</span><span aria-current="page">Buurtvereniging Oost</span></nav><span aria-hidden="true" style="color: var(--sc-work-muted, #5e6168)">·</span><span style="font-size: 14px; color: var(--sc-work-muted, #5e6168)">1 lopende zaak</span></div>
         </div>
       </section>
+        <div style="display: flex; flex-direction: column; gap: 10px; padding: 12px 14px; border: 1px dashed var(--sc-work-field, #828a95); border-radius: 10px"><strong style="font-size: 14px">Mail van een onbekend adres bij deze organisatie</strong><div style="display: flex; flex-wrap: wrap; gap: 10px; align-items: center"><span style="display: flex; gap: 8px; align-items: flex-start; padding: 10px 12px; border-radius: 8px; background: var(--sc-primary-light, #eaf0f7); color: var(--sc-primary-deep, #234a78); font-size: 14px; line-height: 1.4">Contactpersoon aanmaken voor info@buurtoost.nl? De mail van vandaag 09:14 komt van dit adres, dat bij Buurtvereniging Oost hoort maar nog geen contactpersoon is.</span><button type="button" style="display: inline-flex; align-items: center; gap: 6px; height: 34px; padding: 0 12px; border: 0; border-radius: 17px; background: var(--sc-primary-light, #eaf0f7); color: var(--sc-primary-deep, #234a78); font: 600 13px var(--sc-font, 'Fira Sans'), sans-serif; white-space: nowrap; align-self: flex-start">Contactpersoon aanmaken</button><button type="button" style="display: inline-flex; align-items: center; gap: 6px; height: 34px; padding: 0 12px; border: 0; border-radius: 17px; background: var(--sc-primary-light, #eaf0f7); color: var(--sc-primary-deep, #234a78); font: 600 13px var(--sc-font, 'Fira Sans'), sans-serif; white-space: nowrap; align-self: flex-start">Negeren</button></div></div>
 
         <div style="display: flex; flex-wrap: wrap; gap: 20px; align-items: flex-start">
           <div style="flex: 999 1 520px; min-width: 0; display: flex; flex-direction: column; gap: 20px">

diff --git a/screens-src/zuiddrecht/DqOrganisatie.dc.html b/screens-src/zuiddrecht/DqOrganisatie.dc.html
@@ -38,6 +38,7 @@ a{color:#3669a5}a:hover{color:#234a78}
               <nav aria-label="Kruimelpad" style="font-size: 14px; color: #5e6168; display: flex; gap: 8px"><a href="DqOrganisaties.dc.html">Organisaties</a><span aria-hidden="true">/</span><span aria-current="page">Buurtvereniging Oost</span></nav><span aria-hidden="true" style="color: #5e6168">·</span><span style="font-size: 14px; color: #5e6168">1 lopende zaak</span></div>
         </div>
       </section>
+        <div style="display: flex; flex-direction: column; gap: 10px; padding: 12px 14px; border: 1px dashed #828a95; border-radius: 10px"><strong style="font-size: 14px">Mail van een onbekend adres bij deze organisatie</strong><div style="display: flex; flex-wrap: wrap; gap: 10px; align-items: center"><span style="display: flex; gap: 8px; align-items: flex-start; padding: 10px 12px; border-radius: 8px; background: #eaf0f7; color: #234a78; font-size: 14px; line-height: 1.4">Contactpersoon aanmaken voor info@buurtoost.nl? De mail van vandaag 09:14 komt van dit adres, dat bij Buurtvereniging Oost hoort maar nog geen contactpersoon is.</span><button type="button" style="display: inline-flex; align-items: center; gap: 6px; height: 34px; padding: 0 12px; border: 0; border-radius: 17px; background: #eaf0f7; color: #234a78; font: 600 13px 'Fira Sans', sans-serif; white-space: nowrap; align-self: flex-start">Contactpersoon aanmaken</button><button type="button" style="display: inline-flex; align-items: center; gap: 6px; height: 34px; padding: 0 12px; border: 0; border-radius: 17px; background: #eaf0f7; color: #234a78; font: 600 13px 'Fira Sans', sans-serif; white-space: nowrap; align-self: flex-start">Negeren</button></div></div>
 
         <div style="display: flex; flex-wrap: wrap; gap: 20px; align-items: flex-start">
           <div style="flex: 999 1 520px; min-width: 0; display: flex; flex-direction: column; gap: 20px">
